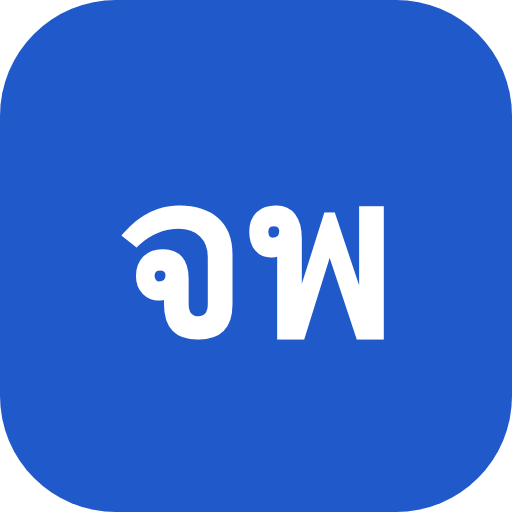
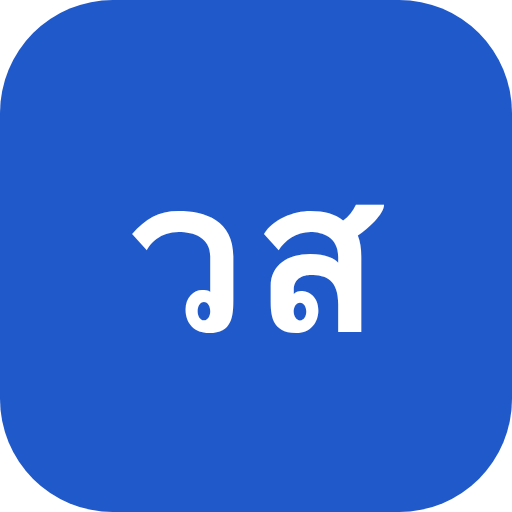
ธุรการประทับตรารับได้, ดู/ซ่อนรหัสได้ทุกช่อง, PIN สองครั้ง, ไอคอนของโรงเรียน
แก้ตามที่แจ้งมาห้าเรื่อง

1) ตราประทับของธุรการไม่แสดง

   ตราประทับรับเป็นหน้าที่ของเจ้าหน้าที่ธุรการโดยตรงตามระเบียบงานสารบรรณ แต่เงื่อนไข
   ในโค้ดคือ "ผู้บันทึกเอกสาร หรือแอดมิน" เท่านั้น พอครูหรือใครก็ตามเป็นคนลงทะเบียน
   หนังสือฉบับนั้นเข้าระบบ ธุรการจะไม่เห็นปุ่มประทับตราเลย และถ้ายิงตรงไปที่ API ก็ถูก
   ปฏิเสธ 403 (เดินจริงยืนยันแล้วทั้งสองทาง) ตอนนี้ธุรการประทับตรารับได้ทุกฉบับ
   จำกัดเฉพาะหนังสือรับ เพราะหนังสือส่งไม่มีตรานี้ และคนที่ไม่เกี่ยวข้องยังทำไม่ได้ตามเดิม

2) ทุกช่องรหัสผ่านและ PIN กดดู/ซ่อนได้

   เติมปุ่มให้ทุกช่องจากที่เดียวใน app.js แทนการไล่เขียนทีละฟอร์ม — ช่องรหัสกระจายอยู่
   หลายหน้า (เข้าสู่ระบบ ตั้งรหัสครั้งแรก โปรไฟล์ ลงทะเบียน ผู้ดูแลตั้งรหัสให้) ถ้าไล่เติมเอง
   จะตกหล่นและฟอร์มใหม่วันหลังก็จะลืมอีก พร้อมกันนี้เอาปุ่มเดิมที่เขียนไว้เฉพาะหน้าเข้าสู่
   ระบบออก เพราะกลายเป็นสองปุ่มซ้อนทับกัน

   ช่อง PIN เดิมเป็น type=text คือโชว์เต็มๆ บนจอทุกที่ยกเว้นหน้าตั้งรหัสครั้งแรก
   เปลี่ยนเป็น type=password ทั้งหมด จึงถูกปิดไว้และได้ปุ่มดู/ซ่อนไปด้วย

3) PIN ตอนตั้งรหัสครั้งแรกให้ใส่สองครั้ง

   PIN ใช้แทนการลงลายมือชื่อ ถ้าพิมพ์ผิดตั้งแต่วันแรกจะไม่รู้ตัวเลยจนกว่าจะถึงตอนต้อง
   ลงนามหนังสือจริง ซึ่งอาจเป็นอีกหลายวันถัดไป แล้วก็ลงนามไม่ได้ ต้องไปขอผู้ดูแลตั้งใหม่
   ตรวจว่าสองช่องตรงกันก่อนตรวจว่า PIN เดาง่ายหรือไม่ เพื่อให้ข้อความตรงกับสิ่งที่ผิดจริง

4) ช่องว่างที่ติดมาตอนเข้าสู่ระบบ

   แป้นพิมพ์มือถือเติมช่องว่างให้เองหลังเลือกคำจากแถบคำแนะนำ และรหัสที่คัดลอกมาจากไลน์
[…]

diff --git a/esaraban/src/routes/documents.js b/esaraban/src/routes/documents.js
@@ -51,6 +51,23 @@ const MAX_ATTACH_FILES = 8;
 // การแนบ 8 ไฟล์รวดผ่านเบราว์เซอร์จริง ไม่มีคู่ไหน created_at ชนกันเลย) แต่ถ้าชนกันเมื่อไร SQLite จะ
 // เลือกแถวไหนก็ได้ และ "ไฟล์หลัก" จะสลับตัวเองได้ระหว่างสองคำขอ — ตัวตัดสินรองทำให้ผลคงที่เสมอ
 const ATTACHMENT_ORDER = 'ORDER BY created_at, rowid';
+
+/**
+ * ใครประทับ "ตรารับ" (เลขรับ/วันที่/เวลา) ลงไฟล์ PDF ได้
+ *
+ * เดิมเงื่อนไขคือ "ผู้บันทึกเอกสาร หรือแอดมิน" ซึ่งกลับหัวกลับหางกับงานจริง — การประทับตรารับเป็น
+ * หน้าที่ของเจ้าหน้าที่ธุรการโดยตรงตามระเบียบงานสารบรรณ (ธุรการคือคนลงรับหนังสือที่เข้ามา) แต่พอ
+ * ครูหรือใครก็ตามเป็นคนลงทะเบียนหนังสือฉบับนั้นเข้าระบบ ธุรการจะ "ไม่เห็นปุ่มประทับตราเลย" และถ้า
+ * ยิงตรงไปที่ API ก็ถูกปฏิเสธ 403 (ทดสอบยืนยันแล้วทั้งสองทาง) — ตราประทับของธุรการจึงไม่แสดง
+ *
+ * ธุรการได้สิทธิ์เฉพาะหนังสือรับ เพราะตรารับมีอยู่แต่ในหนังสือที่รับเข้ามา หนังสือส่งไม่มีตรานี้
+ */
+function canApplyReceivedStamp(user, doc) {
+  if (!doc || doc.direction !== 'incoming') return false;
+  if (user.roleCodes.includes('admin')) return true;
+  if (user.roleCodes.includes('registrar')) return true;
+  return doc.created_by === user.id;
+}
 // checkbox บนตราประทับความเห็นของ ผอ./ผู้รักษาการแทน — ถ้อยคำตรงกับตรายางจริงของโรงเรียน (ยืนยันจาก
 // ภาพถ่ายตราจริงและจากผู้ใช้โดยตรง) เลือกได้หลายอันพร้อมกัน ไม่ผูกกับปุ่ม workflow ที่กดส่ง (ปุ่มนั้นแค่
 // ปิด/ส่งต่อขั้นตอนเท่านั้น) ผู้ตัดสินใจติ๊กเองว่าอันไหนตรงกับความเห็นจริง
@@ -1208,6 +1225,8 @@ router.get('/documents/:id', requirePage((ctx) => {
   // canWriteRegistrarComment() เพื่อไม่ให้ช่องกรอกโผล่มาแล้วกดไปเงียบๆ โดยไม่มีอะไรติดลงไฟล์
   const isRegistrarComment = !!step && !isDirectorDecision && ctx.user.roleCodes.includes('registrar');
   const isCreatorOrAdmin = doc.created_by === ctx.user.id || ctx.user.roleCodes.includes('admin');
+  // ต้องตรงกับที่บังคับฝั่งเซิร์ฟเวอร์เป๊ะ ไม่งั้นปุ่มจะโผล่มาแล้วกดไม่ผ่าน หรือกดได้แต่ไม่มีปุ่มให้กด
+  const canStampReceived = canApplyReceivedStamp(ctx.user, doc);
   const canAssign = ['registered', 'returned'].includes(doc.status) && isCreatorOrAdmin;
   const canVoid = ['draft', 'registered'].includes(doc.status) && isCreatorOrAdmin;
   const canArchive = doc.status === 'completed' && isCreatorOrAdmin;
@@ -1595,7 +1614,7 @@ router.get('/documents/:id', requirePage((ctx) => {
                   ${a.stamped_storage_provider ? '<span class="badge badge-success" style="margin-left:.4rem">✅ ประทับตราแล้ว</span>' : ''}
                 </div>
                 <div class="chip-row">
-                  ${i === 0 && doc.direction === 'incoming' && isCreatorOrAdmin ? `<button type="button" class="btn btn-sm btn-primary" onclick="applyStamp('${a.id}', this)">🖋 ประทับตราลงไฟล์ PDF จริง</button>` : ''}
+                  ${i === 0 && canStampReceived ? `<button type="button" class="btn btn-sm btn-primary" onclick="applyStamp('${a.id}', this)">🖋 ประทับตราลงไฟล์ PDF จริง</button>` : ''}
                   <button type="button" class="btn btn-sm btn-outline" onclick="togglePreview('${a.id}')">👁 ดูตัวอย่าง</button>
                   <a class="btn btn-sm btn-outline" href="/files/${a.id}" target="_blank" rel="noopener">เปิดแท็บใหม่</a>
                   ${a.stamped_storage_provider ? `<a class="btn btn-sm btn-outline" href="/files/${a.id}?original=1" target="_blank" rel="noopener">ดูต้นฉบับ (ไม่มีตรา)</a>` : ''}
@@ -2306,8 +2325,8 @@ async function stampDirectorDecisionIfApplicable({ documentId, stepId, actorUser
 router.post('/documents/:id/attachments/:attId/apply-stamp', requireApi(async (ctx) => {
   const doc = getDocument(ctx.params.id);
   if (!doc || !canUserSeeDocument(ctx.user, doc)) throw httpError(404, 'ไม่พบเอกสาร');
-  if (doc.created_by !== ctx.user.id && !ctx.user.roleCodes.includes('admin')) {
-    throw httpError(403, 'สร้าง PDF ที่ประทับตราแล้วได้เฉพาะผู้บันทึกเอกสารหรือแอดมินเท่านั้น');
+  if (!canApplyReceivedStamp(ctx.user, doc)) {
+    throw httpError(403, 'ประทับตรารับลงไฟล์ PDF ได้เฉพาะเจ้าหน้าที่ธุรการ ผู้บันทึกเอกสาร หรือผู้ดูแลระบบเท่านั้น');
   }
   const att = db.prepare('SELECT * FROM attachments WHERE id = ? AND document_id = ?').get(ctx.params.attId, doc.id);
   if (!att) throw httpError(404, 'ไม่พบไฟล์แนบนี้');

diff --git a/esaraban/src/routes/auth.js b/esaraban/src/routes/auth.js
@@ -86,10 +86,10 @@ function loginPage({ error, next = '', remember = false } = {}) {
           </div>
           <div class="field">
             <label>รหัสผ่าน</label>
-            <div class="password-field">
-              <input type="password" name="password" id="loginPassword" required autocomplete="current-password" placeholder="••••••••" />
-              <button type="button" class="password-toggle" onclick="var f=document.getElementById('loginPassword');var showing=f.type==='text';f.type=showing?'password':'text';this.textContent=showing?'แสดง':'ซ่อน';">แสดง</button>
-            </div>
+            <!-- ปุ่มดู/ซ่อนรหัสไม่ต้องเขียนที่นี่ — /app.js เติมให้ทุกช่องรหัสผ่านในระบบเองแบบเดียวกันหมด
+                 (เดิมหน้านี้มีปุ่มของตัวเองเขียนไว้ต่างหาก ทำให้เป็นที่เดียวในระบบที่มีปุ่ม และพอเติมปุ่ม
+                 กลางเข้ามาก็กลายเป็นสองปุ่มซ้อนทับกัน) -->
+            <input type="password" name="password" id="loginPassword" required autocomplete="current-password" placeholder="••••••••" />
           </div>
           <label class="remember-row">
             <input type="checkbox" name="remember" value="on"${remember ? ' checked' : ''} />
@@ -208,6 +208,13 @@ function firstLoginPage(user, { error } = {}) {
             <input type="password" name="newPin" inputmode="numeric" pattern="[0-9]{6}" maxlength="6" required autocomplete="new-password" />
             <div class="help-text">ห้ามใช้เลขซ้ำทั้งหมด (111111) หรือเลขเรียง (123456)</div>
           </div>
+          <!-- PIN ต้องพิมพ์สองครั้งเหมือนรหัสผ่าน — PIN ใช้แทนการลงลายมือชื่อ ถ้าพิมพ์ผิดตั้งแต่วันแรก
+               เจ้าตัวจะไม่รู้เลยจนกว่าจะถึงตอนต้องลงนามหนังสือจริง (ซึ่งอาจเป็นอีกหลายวันถัดไป) แล้วก็
+               กดลงนามไม่ได้ ต้องไปขอผู้ดูแลตั้งให้ใหม่ ทั้งที่กันได้ตั้งแต่ตอนกรอกด้วยช่องยืนยันช่องเดียว -->
+          <div class="field">
+            <label>พิมพ์ PIN ใหม่อีกครั้ง</label>
+            <input type="password" name="confirmPin" inputmode="numeric" pattern="[0-9]{6}" maxlength="6" required autocomplete="new-password" />
+          </div>
           <button class="btn btn-primary btn-block" type="submit">บันทึกและเริ่มใช้งาน</button>
         </form>
         <div class="text-muted" style="text-align:center;margin-top:1rem;font-size:.82rem">
@@ -227,7 +234,7 @@ router.get('/first-login', (ctx) => {
 router.post('/first-login', (ctx) => {
   if (!ctx.user) return redirect(ctx, '/login');
   if (!ctx.user.must_change_password) return redirect(ctx, '/');
-  const { newPassword, confirmPassword, newPin } = ctx.body;
+  const { newPassword, confirmPassword, newPin, confirmPin } = ctx.body;
   const fail = (error) => html(ctx, 400, layout({
     user: null, title: 'ตั้งรหัสผ่านของตัวเอง', path: '/first-login',
     content: firstLoginPage(ctx.user, { error }),
@@ -239,6 +246,9 @@ router.post('/first-login', (ctx) => {
   const row = db.prepare('SELECT password_hash, pin_hash FROM users WHERE id = ?').get(ctx.user.id);
   if (verifySecret(newPassword, row.password_hash)) return fail('รหัสผ่านใหม่ต้องไม่ซ้ำกับรหัสผ่านชั่วคราวที่ได้รับมา');
   if (!/^\d{6}$/.test(newPin || '')) return fail('PIN ต้องเป็นตัวเลข 6 หลัก');
+  // ต้องตรวจก่อน isWeakPin เพื่อให้ข้อความตรงกับสิ่งที่ผิดจริง — ถ้าพิมพ์ไม่ตรงกันแล้วไปเจอ
+  // "PIN เดาง่ายเกินไป" ก่อน ผู้ใช้จะไล่แก้ผิดจุด
+  if (newPin !== confirmPin) return fail('PIN ใหม่ทั้งสองช่องไม่ตรงกัน');
   if (isWeakPin(newPin)) return fail('PIN นี้เดาง่ายเกินไป — ห้ามใช้เลขซ้ำทั้งหมดหรือเลขเรียงติดกัน');
   if (verifySecret(newPin, row.pin_hash)) return fail('PIN ใหม่ต้องไม่ซ้ำกับ PIN ชั่วคราวที่ได้รับมา');
 

diff --git a/esaraban/src/routes/manifest.js b/esaraban/src/routes/manifest.js
@@ -6,7 +6,8 @@
 // เป็นหน้าสาธารณะโดยตั้งใจ (ไม่ต้องล็อกอิน) — เบราว์เซอร์ต้องโหลด manifest ได้ตั้งแต่หน้าเข้าสู่ระบบ
 // ถึงจะเสนอให้ "เพิ่มลงในหน้าจอโฮม" ได้ และไม่มีข้อมูลส่วนบุคคลอยู่ในไฟล์นี้
 import { router } from '../router.js';
-import { schoolName, appShortName } from '../services/settings.js';
+import { schoolName, appShortName, schoolInitials } from '../services/settings.js';
+import { esc } from '../render.js';
 
 router.get('/manifest.webmanifest', (ctx) => {
   const name = schoolName();
@@ -48,6 +49,33 @@ router.get('/manifest.webmanifest', (ctx) => {
     'Content-Type': 'application/manifest+json; charset=utf-8',
     'Content-Length': body.length,
     // ชื่อโรงเรียนเปลี่ยนได้จากหน้าตั้งค่า จึงห้ามให้เบราว์เซอร์แคชยาว ไม่งั้นชื่อเก่าค้างบนมือถือครู
+    'Cache-Control': 'no-cache',
+  });
+  ctx.res.end(body);
+});
+
+// ไอคอนบนแท็บเบราว์เซอร์ — สร้างจากตัวย่อของโรงเรียนที่ตั้งไว้จริง เช่นเดียวกับ manifest
+//
+// เดิมเป็นไฟล์นิ่ง public/favicon.svg ที่เขียนตัวอักษร "จพ" ฝังไว้ตายตัว ซึ่งเป็นตัวย่อของโรงเรียนอื่น
+// ทำให้ทุกโรงเรียนที่เอาระบบนี้ไปใช้ได้ไอคอนผิดเหมือนกันหมด และแอดมินแก้เองจากในระบบไม่ได้เลย
+// ตอนนี้อ่านจาก schoolInitials() ซึ่งถอดตัวย่อจากชื่อโรงเรียนให้เอง (ตั้งทับเองได้ที่ school_initials)
+//
+// ส่วนไอคอนบนหน้าจอโฮมของมือถือเป็นไฟล์ PNG (ดู /icon-192.png) ซึ่งสร้างสดไม่ได้เพราะต้องใช้
+// โปรแกรมวาดรูป จึงเป็นไฟล์นิ่งที่สร้างไว้ล่วงหน้า — ถ้าเปลี่ยนชื่อโรงเรียน ต้องสร้างไฟล์ชุดนั้นใหม่
+// (ขั้นตอนอยู่ใน deploy/คู่มือผู้ดูแลระบบ.md) แต่ไอคอนบนแท็บจะเปลี่ยนตามให้ทันทีโดยไม่ต้องทำอะไร
+router.get('/favicon.svg', (ctx) => {
+  const initials = schoolInitials();
+  // ตัวย่อยาวกว่า 2 ตัวจะล้นกรอบ จึงย่อขนาดตัวอักษรลงตามความยาวแทนที่จะปล่อยให้ตกขอบ
+  const fontSize = initials.length <= 2 ? 14 : initials.length === 3 ? 10 : 8;
+  const svg = `<svg xmlns="http://www.w3.org/2000/svg" viewBox="0 0 32 32">`
+    + `<rect width="32" height="32" rx="7" fill="#2059c9"/>`
+    + `<text x="16" y="22" font-size="${fontSize}" font-family="sans-serif" font-weight="700" fill="#fff" text-anchor="middle">${esc(initials)}</text>`
+    + `</svg>`;
+  const body = Buffer.from(svg, 'utf8');
+  ctx.res.writeHead(200, {
+    'Content-Type': 'image/svg+xml; charset=utf-8',
+    'Content-Length': body.length,
+    // ชื่อโรงเรียนเปลี่ยนได้จากหน้าตั้งค่า ห้ามให้เบราว์เซอร์แคชยาว ไม่งั้นตัวย่อเก่าค้างบนแท็บ
     'Cache-Control': 'no-cache',
   });
   ctx.res.end(body);

diff --git a/esaraban/public/app.js b/esaraban/public/app.js
@@ -463,6 +463,52 @@
   })();
 
   /**
+   * ปุ่มดู/ซ่อนรหัสผ่านทุกช่องในระบบ
+   *
+   * ทำที่เดียวแบบกวาดทั้งหน้า แทนการไล่เติมปุ่มทีละฟอร์ม — ช่องรหัสผ่านกระจายอยู่หลายหน้า
+   * (เข้าสู่ระบบ, ตั้งรหัสครั้งแรก, เปลี่ยนรหัสในโปรไฟล์, ลงทะเบียน, ผู้ดูแลตั้งรหัสให้) ถ้าไล่เติมเอง
+   * จะตกหล่นและฟอร์มที่เพิ่มมาใหม่วันหลังก็จะลืมอีก วิธีนี้ครอบคลุมทั้งของเดิมและของใหม่
+   *
+   * ทำไมจำเป็น: รหัสที่ตั้งใหม่ต้องยาวอย่างน้อย 8 ตัวและพิมพ์บนแป้นมือถือ ซึ่งพิมพ์ผิดง่ายมากและ
+   * มองไม่เห็นเลยว่าพิมพ์อะไรไป คนจึงตั้งรหัสที่ตัวเองก็ไม่รู้ว่าคืออะไร แล้วล็อกอินกลับเข้าไม่ได้
+   */
+  (function passwordRevealButtons() {
+    function attach(input) {
+      if (input.dataset.revealReady) return;
+      input.dataset.revealReady = '1';
+
+      const wrap = document.createElement('div');
+      wrap.className = 'pw-wrap';
+      input.parentNode.insertBefore(wrap, input);
+      wrap.appendChild(input);
+
+      const btn = document.createElement('button');
+      btn.type = 'button'; // ต้องไม่ใช่ submit ไม่งั้นกดดูรหัสแล้วฟอร์มถูกส่งทันที
+      btn.className = 'pw-reveal';
+      btn.tabIndex = -1; // ไม่ขวางลำดับ Tab จากช่องรหัสผ่านไปยังปุ่มส่ง
+      const sync = () => {
+        const shown = input.type === 'text';
+        btn.textContent = shown ? '🙈' : '👁';
+        btn.title = shown ? 'ซ่อนรหัส' : 'ดูรหัสที่พิมพ์ไว้';
+        btn.setAttribute('aria-label', btn.title);
+        btn.setAttribute('aria-pressed', shown ? 'true' : 'false');
+      };
+      btn.onclick = function () {
+        // เก็บตำแหน่งเคอร์เซอร์ไว้ — การสลับ type ทำให้เคอร์เซอร์เด้งไปท้ายช่องทุกครั้ง
+        // ซึ่งกวนมากถ้ากำลังแก้ตัวอักษรกลางรหัสอยู่
+        const pos = input.selectionStart;
+        input.type = input.type === 'password' ? 'text' : 'password';
+        sync();
+        input.focus();
+        try { input.setSelectionRange(pos, pos); } catch (_) { /* บางเบราว์เซอร์ไม่ให้ตั้งกับ type=text ทันที */ }
+      };
+      sync();
+      wrap.appendChild(btn);
+    }
+    document.querySelectorAll('input[type=password]').forEach(attach);
+  })();
+
+  /**
    * ข้อความเตือนของเบราว์เซอร์เป็นภาษาไทย
    *
    * ฟอร์มที่ส่งแบบ <form method="post"> ธรรมดา (หน้าเข้าสู่ระบบ ตั้งรหัสครั้งแรก ลงทะเบียน) พึ่ง

diff --git a/esaraban/src/auth.js b/esaraban/src/auth.js
@@ -57,7 +57,27 @@ function unsign(signed) {
   return diff === 0 ? value : null;
 }
 
+/**
+ * ช่องว่างหน้า-หลังที่ติดมาโดยไม่ตั้งใจ ต้องไม่นับเป็นตัวอักษรที่ผู้ใช้พิมพ์
+ *
+ * บนมือถือ แป้นพิมพ์เติมช่องว่างให้เองหลังเลือกคำจากแถบคำแนะนำ และการคัดลอกรหัสที่ผู้ดูแลส่งมาทางไลน์
+ * มักติดช่องว่างหรือขึ้นบรรทัดใหม่มาด้วยเสมอ ผลคือ "บัญชีผู้ใช้หรือรหัสผ่านไม่ถูกต้อง" ทั้งที่พิมพ์ถูกทุกตัว
+ * และมองด้วยตาก็ไม่มีทางเห็นว่าต่างกันตรงไหน — ครูจะสรุปว่ารหัสที่ได้มาใช้ไม่ได้
+ *
+ * รหัสผ่านตัดช่องว่างทิ้งไปเลยไม่ได้ เพราะถ้ามีใครตั้งรหัสที่มีช่องว่างหน้า-หลังไว้จริง รหัสนั้นจะใช้ไม่ได้
+ * ทันที จึงลองแบบที่พิมพ์มาก่อนเสมอ แล้วค่อยลองแบบตัดช่องว่างเป็นทางสำรอง — ไม่มีรหัสเดิมของใครพังเลย
+ * และการนับครั้งที่กรอกผิดยังเดินตามปกติเมื่อผิดจริงทั้งสองแบบ
+ */
+function passwordMatches(password, hash) {
+  if (verifySecret(password, hash)) return true;
+  const trimmed = String(password ?? '').trim();
+  return trimmed !== password && verifySecret(trimmed, hash);
+}
+
 export function login(employeeCode, password, ip, userAgent, { remember = false } = {}) {
+  // รหัสพนักงานตัดช่องว่างได้เลย ไม่ต้องมีทางสำรอง — เป็นชื่อบัญชีที่ผู้ดูแลตั้งให้ ไม่มีกรณีที่ตั้งใจ
+  // ให้มีช่องว่างหัวท้าย (และฝั่งสร้างผู้ใช้ก็ตัดทิ้งอยู่แล้ว)
+  employeeCode = typeof employeeCode === 'string' ? employeeCode.trim() : employeeCode;
   const user = getUserByCode(employeeCode);
   if (!user || user.status !== 'active') {
     audit({ action: 'login_failed', detail: { employeeCode, reason: 'no_user' }, ip });
@@ -70,7 +90,7 @@ export function login(employeeCode, password, ip, userAgent, { remember = false 
     return { ok: false, error: `บัญชีถูกล็อกชั่วคราวเนื่องจากกรอกรหัสผ่านผิดหลายครั้ง กรุณาลองใหม่อีกครั้งในอีก ${minutesLeft} นาที` };
   }
 
-  if (!verifySecret(password, user.password_hash)) {
+  if (!passwordMatches(password, user.password_hash)) {
     const failedCount = (user.failed_login_count || 0) + 1;
     if (failedCount >= MAX_FAILED_ATTEMPTS) {
       const lockedUntil = new Date(Date.now() + LOCKOUT_MS).toISOString();

diff --git a/esaraban/server.js b/esaraban/server.js
@@ -98,7 +98,10 @@ const server = http.createServer(async (req, res) => {
     if (pathname === '/' || !pathname.startsWith('/api') ) {
       // manifest.webmanifest ไม่เสิร์ฟเป็นไฟล์นิ่ง เพราะต้องใส่ชื่อโรงเรียนที่แอดมินตั้งไว้ลงไป
       // (ชื่อแอปบนหน้าจอมือถือ) — มี route สร้างให้แบบ dynamic ใน src/routes/index.js แทน
-      if (pathname !== '/manifest.webmanifest'
+      // favicon.svg ก็เช่นกัน — ตัวอักษรย่อบนไอคอนต้องเป็นของโรงเรียนที่ใช้งานอยู่จริง ไม่ใช่ค่าที่
+      // ฝังไว้ตอนเขียนโปรแกรม (เดิมเป็นไฟล์นิ่งที่เขียน "จพ" ไว้ตายตัว ทุกโรงเรียนจึงได้ตัวย่อนั้นหมด)
+      const DYNAMIC_ASSETS = new Set(['/manifest.webmanifest', '/favicon.svg']);
+      if (!DYNAMIC_ASSETS.has(pathname)
         && (pathname.startsWith('/style.css') || pathname.startsWith('/app.js') || pathname.match(/\.(css|js|png|svg|ico|webmanifest)$/))) {
         if (serveStatic(req, res, pathname)) return;
       }

diff --git a/esaraban/public/style.css b/esaraban/public/style.css
@@ -953,3 +953,29 @@ code { overflow-wrap: anywhere; }
   padding-left: .45rem;
   padding-right: .45rem;
 }
+
+/* ปุ่มดู/ซ่อนรหัสผ่าน (window.app.js → passwordRevealButtons)
+   ปุ่มลอยทับอยู่ในกรอบช่องกรอก จึงต้องเผื่อ padding ขวาไว้ ไม่งั้นตัวอักษรท้ายรหัสจะวิ่งไปอยู่ใต้ปุ่ม */
+.pw-wrap { position: relative; display: block; }
+.pw-wrap > input { width: 100%; padding-right: 2.9rem; }
+.pw-reveal {
+  position: absolute;
+  top: 50%;
+  right: .35rem;
+  transform: translateY(-50%);
+  border: 0;
+  background: transparent;
+  cursor: pointer;
+  padding: 0;
+  line-height: 1;
+  font-size: 1.05rem;
+  /* เป้ากดอย่างน้อย 40px ตามนิ้วจริงบนมือถือ — ปุ่มขนาดตัวอีโมจิเปล่าๆ เล็กเกินกว่าจะกดโดน */
+  width: 2.3rem;
+  height: 2.3rem;
+  display: flex;
+  align-items: center;
+  justify-content: center;
+  border-radius: 6px;
+  opacity: .72;
+}
+.pw-reveal:hover, .pw-reveal:focus-visible { opacity: 1; background: var(--surface-2); }

diff --git a/esaraban/src/render.js b/esaraban/src/render.js
@@ -202,7 +202,7 @@ ${user ? renderAppShell({ user, currentPath, content, flash, initials }) : conte
     <h3 id="pinModalTitle">ยืนยันตัวตนด้วย PIN</h3>
     <p class="text-muted" style="font-size:.82rem">กรอกรหัส PIN 6 หลักของคุณเพื่อยืนยันการทำรายการนี้ (ตาม Business Rule: ต้องยืนยันตัวตนก่อนรับทราบ/ลงนามทุกครั้ง)</p>
     <div class="field">
-      <input type="text" inputmode="numeric" maxlength="6" id="pinInput" aria-label="รหัส PIN 6 หลัก" placeholder="••••••" style="text-align:center;font-size:1.4rem;letter-spacing:.4em" autocomplete="off" />
+      <input type="password" inputmode="numeric" maxlength="6" id="pinInput" aria-label="รหัส PIN 6 หลัก" placeholder="••••••" style="text-align:center;font-size:1.4rem;letter-spacing:.4em" autocomplete="off" />
     </div>
     <div class="flex gap-2">
       <button class="btn btn-outline btn-block" onclick="closePinModal(false)">ยกเลิก</button>

diff --git a/esaraban/src/routes/admin.js b/esaraban/src/routes/admin.js
@@ -168,7 +168,7 @@ router.get('/admin/users', requireRole('admin')(requirePage((ctx) => {
           <div class="field"><label>ฝ่าย</label><select id="departmentId">${depts.map((d) => `<option value="${d.id}">${esc(d.name)}</option>`).join('')}</select></div>
           <div class="field"><label>บทบาท</label><select id="roleId">${roles.map((r) => `<option value="${r.id}">${esc(r.name_th)}</option>`).join('')}</select></div>
           <div class="field"><label>รหัสผ่านเริ่มต้น</label><input type="text" id="password" required placeholder="เช่น Welcome@2569" /></div>
-          <div class="field"><label>PIN เริ่มต้น (6 หลัก)</label><input type="text" id="pin" inputmode="numeric" maxlength="6" required /></div>
+          <div class="field"><label>PIN เริ่มต้น (6 หลัก)</label><input type="password" id="pin" inputmode="numeric" maxlength="6" required autocomplete="new-password" /></div>
           <button class="btn btn-primary" type="submit">สร้างผู้ใช้</button>
         </form>
         <script>

diff --git a/esaraban/src/routes/registration.js b/esaraban/src/routes/registration.js
@@ -78,7 +78,7 @@ function registerPage({ error, done, values = {} } = {}) {
         <input type="password" id="regPassword" name="password" minlength="8" required autocomplete="new-password"
           ${error ? 'autofocus' : ''} /></div>
       <div class="field"><label for="regPin">PIN 6 หลัก *</label>
-        <input type="text" id="regPin" name="pin" inputmode="numeric" maxlength="6" required />
+        <input type="password" id="regPin" name="pin" inputmode="numeric" maxlength="6" required autocomplete="new-password" />
         <div class="help-text">ใช้แทนการลงลายมือชื่อเวลากด "ทราบ"/ลงนาม จึงต้องเป็นความลับเฉพาะตัว ห้ามใช้ 111111 หรือ 123456</div></div>
       <div class="field"><label>ข้อความถึงผู้ดูแล</label>
         <textarea name="note" rows="2" placeholder="เช่น ครูประจำชั้น ป.4 เพิ่งย้ายมาเทอมนี้">${v('note')}</textarea>

diff --git a/esaraban/src/routes/profile.js b/esaraban/src/routes/profile.js
@@ -117,7 +117,7 @@ router.get('/profile', requirePage((ctx) => {
         <h3 style="margin-top:1.2rem">เปลี่ยน PIN (ใช้ยืนยันการรับทราบ/ลงนาม)</h3>
         <form id="pinForm" class="stack">
           <div class="field"><label>รหัสผ่านปัจจุบัน</label><input type="password" id="curPassword" required /></div>
-          <div class="field"><label>PIN ใหม่ (6 หลัก)</label><input type="text" id="newPin" inputmode="numeric" maxlength="6" required /></div>
+          <div class="field"><label>PIN ใหม่ (6 หลัก)</label><input type="password" id="newPin" inputmode="numeric" maxlength="6" required autocomplete="new-password" /></div>
           <button class="btn btn-primary" type="submit">บันทึก PIN ใหม่</button>
         </form>
 
